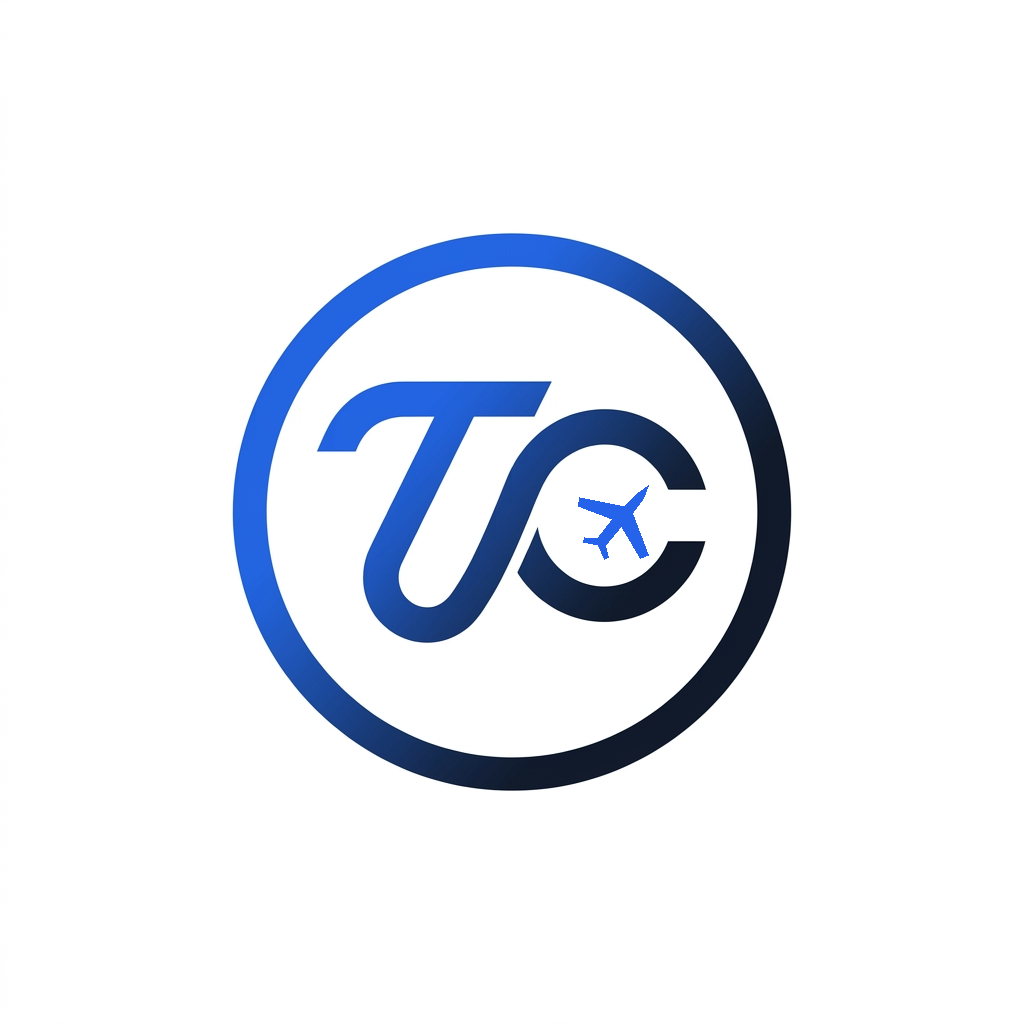
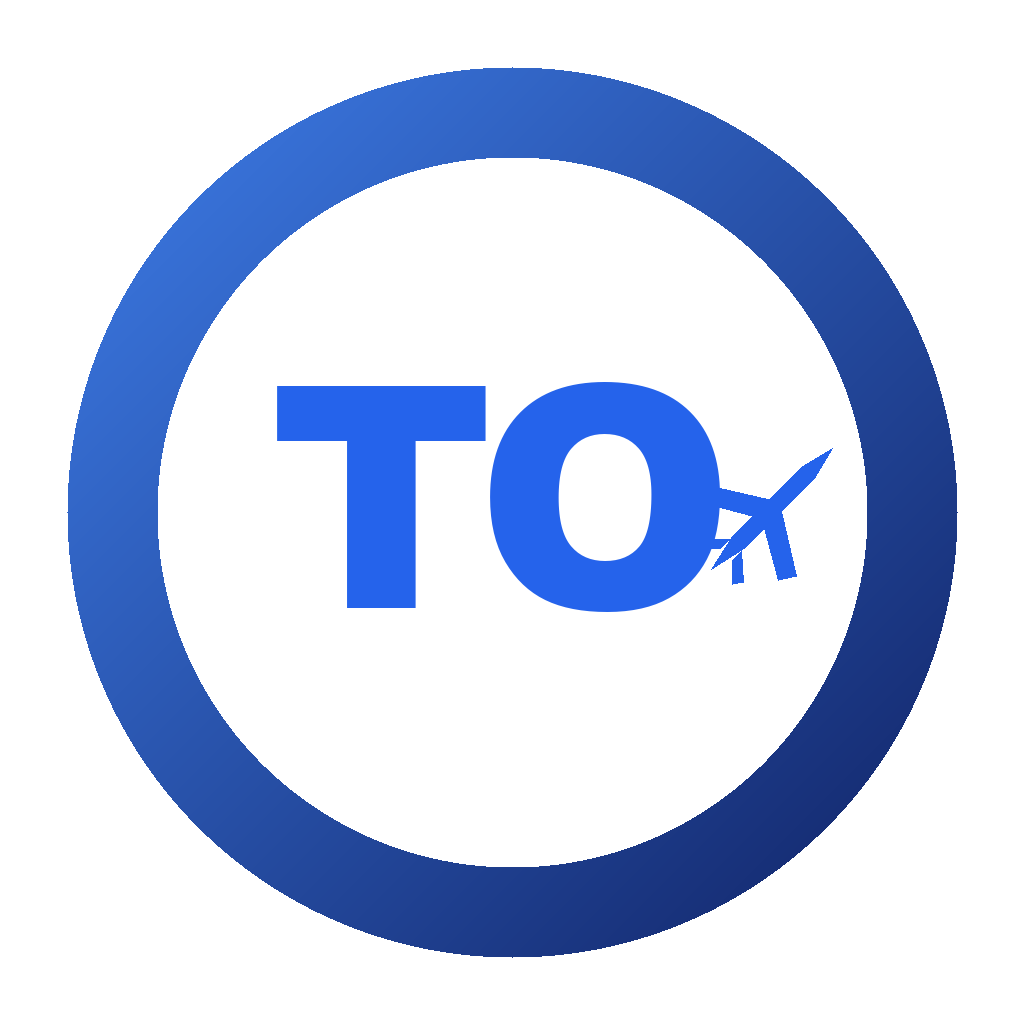
chore: auto-sync changes

diff --git a/generate_logo.py b/generate_logo.py
@@ -1,0 +1,127 @@
+from PIL import Image, ImageDraw, ImageFont
+import numpy as np
+import math
+
+SIZE = 1024
+cx, cy = SIZE // 2, SIZE // 2
+
+# --- Gradient ring ---
+y_grid, x_grid = np.mgrid[0:SIZE, 0:SIZE]
+dx = x_grid - cx
+dy = y_grid - cy
+dist = np.sqrt(dx**2 + dy**2)
+
+outer_r = 445
+inner_r = 355
+
+ring_mask = (dist >= inner_r) & (dist <= outer_r)
+
+# Diagonal gradient: top-left = bright blue, bottom-right = dark navy
+t = np.clip((x_grid + y_grid) / (2 * SIZE), 0, 1)
+color_bright = np.array([66, 133, 244])
+color_dark   = np.array([13,  27,  90])
+
+img_arr = np.ones((SIZE, SIZE, 4), dtype=np.uint8) * 255
+for c in range(3):
+    img_arr[:, :, c] = np.where(
+        ring_mask,
+        (color_bright[c] * (1 - t) + color_dark[c] * t).astype(np.uint8),
+        img_arr[:, :, c],
+    )
+
+result = Image.fromarray(img_arr, 'RGBA')
+draw = ImageDraw.Draw(result)
+
+# --- Font ---
+font_size = 310
+font = ImageFont.truetype('/System/Library/Fonts/Supplemental/Arial Black.ttf', font_size)
+text_color = (37, 99, 235, 255)
+
+t_bb = draw.textbbox((0, 0), "T", font=font)
+o_bb = draw.textbbox((0, 0), "O", font=font)
+t_w, t_h = t_bb[2] - t_bb[0], t_bb[3] - t_bb[1]
+o_w, o_h = o_bb[2] - o_bb[0], o_bb[3] - o_bb[1]
+
+overlap = 18
+total_w = t_w + o_w - overlap
+start_x = cx - total_w // 2 - 10
+
+t_x = start_x - t_bb[0]
+t_y = cy - t_h // 2 - t_bb[1] - 15
+o_x = start_x + t_w - overlap - o_bb[0]
+o_y = cy - o_h // 2 - o_bb[1] - 15
+
+draw.text((t_x, t_y), "T", font=font, fill=text_color)
+draw.text((o_x, o_y), "O", font=font, fill=text_color)
+
+# --- Plane icon ---
+# Positioned at lower-right of the O, overlapping its edge (same placement as
+# the original plane was at the C's opening), in matching blue.
+
+# Plane in the white gap to the right of the O (mirror of original TC's plane
+# at the C's opening). Absolute coords derived from measured O bounds:
+# O right=734, inner ring right=867, O center_y≈497.
+o_right  = o_x + o_bb[2]          # actual right pixel of O
+o_mid_y  = (o_y + o_bb[1] + o_y + o_bb[3]) // 2   # vertical centre of O
+plane_x  = o_right + 38           # overlaps the O's right edge slightly
+plane_y  = o_mid_y + 12           # just below O centre
+
+def make_plane(pcx, pcy, size, angle_deg):
+    """Top-down airplane. Default body points UP (nose at -y); angle rotates it.
+    +45 deg puts the nose upper-right in screen coords (y-down)."""
+    angle = math.radians(angle_deg)
+
+    def rot(px, py):
+        c, s = math.cos(angle), math.sin(angle)
+        return pcx + px * c - py * s, pcy + px * s + py * c
+
+    s = size
+    fuselage = [
+        rot( 0,          -s * 0.90),
+        rot( s * 0.09,   -s * 0.55),
+        rot( s * 0.09,    s * 0.50),
+        rot( 0,           s * 0.90),
+        rot(-s * 0.09,    s * 0.50),
+        rot(-s * 0.09,   -s * 0.55),
+    ]
+    right_wing = [
+        rot( s * 0.09,  -s * 0.05),
+        rot( s * 0.68,   s * 0.32),
+        rot( s * 0.58,   s * 0.48),
+        rot( s * 0.09,   s * 0.20),
+    ]
+    left_wing = [
+        rot(-s * 0.09,  -s * 0.05),
+        rot(-s * 0.68,   s * 0.32),
+        rot(-s * 0.58,   s * 0.48),
+        rot(-s * 0.09,   s * 0.20),
+    ]
+    right_tail = [
+        rot( s * 0.09,   s * 0.54),
+        rot( s * 0.33,   s * 0.76),
+        rot( s * 0.27,   s * 0.86),
+        rot( s * 0.09,   s * 0.68),
+    ]
+    left_tail = [
+        rot(-s * 0.09,   s * 0.54),
+        rot(-s * 0.33,   s * 0.76),
+        rot(-s * 0.27,   s * 0.86),
+        rot(-s * 0.09,   s * 0.68),
+    ]
+    return fuselage, right_wing, left_wing, right_tail, left_tail
+
+plane_color = (37, 99, 235, 255)   # same blue as letters, on white background
+plane_size  = 95
+angle_deg   = 45   # +45 → nose points upper-right in screen coords
+
+for part in make_plane(plane_x, plane_y, plane_size, angle_deg):
+    draw.polygon(part, fill=plane_color)
+
+# --- Save all asset sizes ---
+BASE = '/Users/mahmudulkhan/Downloads/projects/tripcircle/assets'
+result.save(f'{BASE}/logo.png')
+result.save(f'{BASE}/icon.png')
+result.save(f'{BASE}/splash-icon.png')
+result.resize((48, 48), Image.LANCZOS).save(f'{BASE}/favicon.png')
+
+print('Done.')
